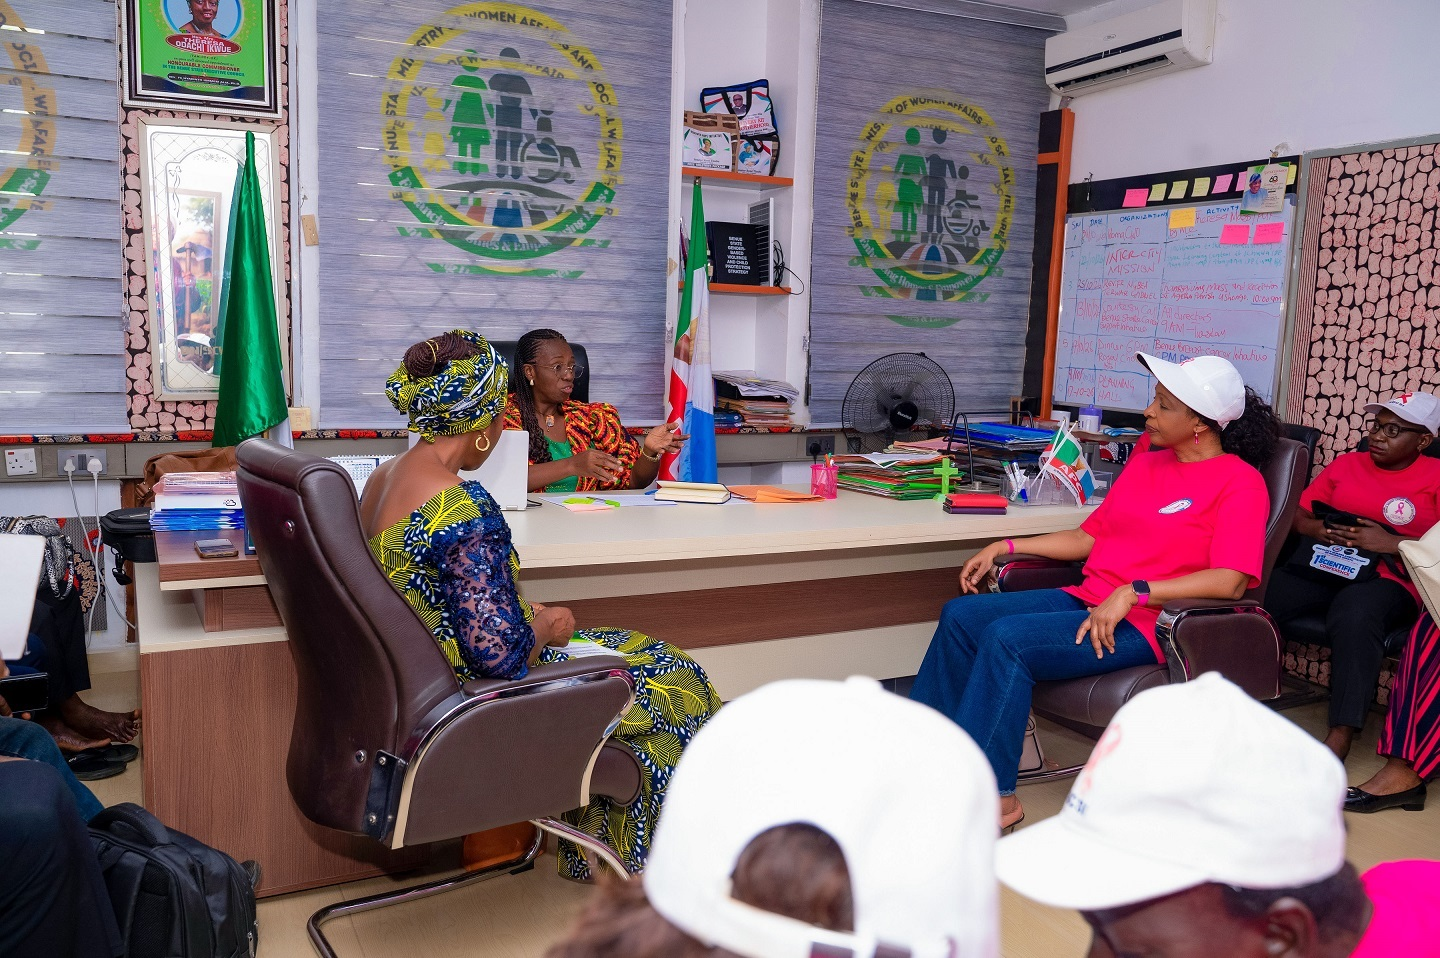
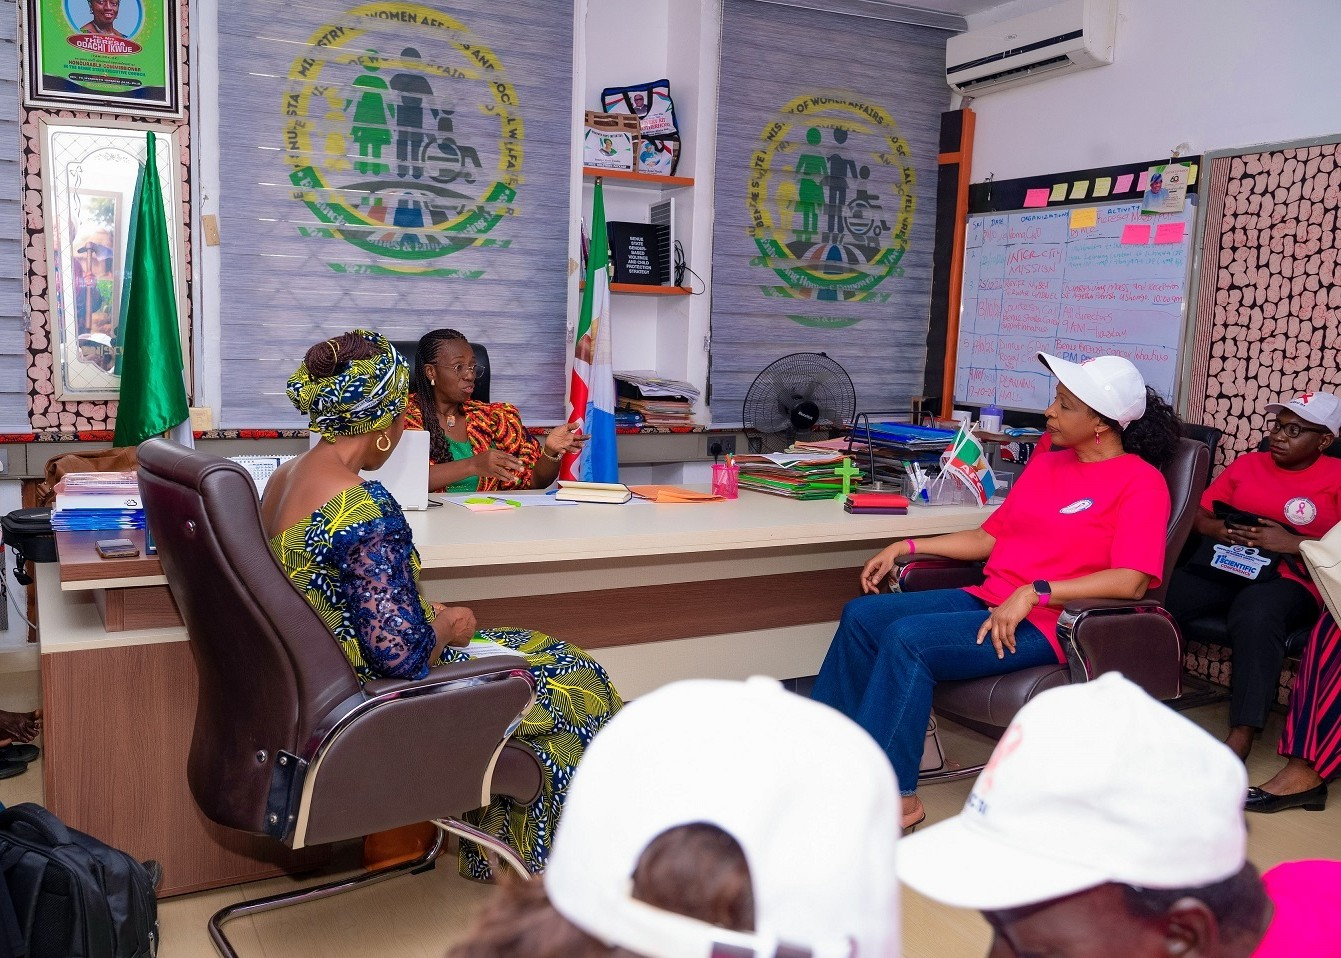
day six part 2 cleanup

diff --git a/blog/blog_10th_anniversary_gala_night_2026.html b/blog/blog_10th_anniversary_gala_night_2026.html
@@ -3,9 +3,7 @@
   <head>
     <meta charset="utf-8" />
     <meta name="viewport" content="width=device-width, initial-scale=1" />
-    <title>
-      BBCSI at 10, Day Six Part Two: An Evening of Gratitude, Celebration and
-      Remembrance at the 10th Anniversary Gala Night | BBCSI
+    <title> 10th Anniversary Gala Night | BBCSI
     </title>
     <meta
       name="description"
@@ -139,7 +137,6 @@
         border-radius: 10px;
         padding: 20px;
         margin-bottom: 15px;
-        border-left: 4px solid var(--bbc-pink);
       }
       blockquote {
         background: linear-gradient(135deg, #fdf2f8 0%, #fff 100%);
@@ -370,21 +367,17 @@
       <div class="container" data-aos="fade-up">
         <article class="bg-white p-4 p-md-5 rounded-4 shadow-sm">
           <div class="mb-4">
-            <span class="badge bbc-pink-bg mb-3">Anniversary</span>
+            <span class="badge bbc-pink-bg mb-3">10th Anniversary</span>
             <h1 class="display-6 fw-bold heading bbc-pink-text">
-              BBCSI at 10: A Decade of Impact
+              An Evening of Gratitude, Celebration and
+              Remembrance &ndash;
             </h1>
-            <p class="h5 text-muted fw-normal">
-              Day Six, Part Two: An Evening of Gratitude, Celebration and
-              Remembrance &ndash; BBCSI&rsquo;s 10th Anniversary Gala Night
-            </p>
             <p class="text-muted small my-4">
-              <i class="bi bi-calendar3 me-2" aria-hidden="true"></i>Published:
-              <time datetime="2026-10-17">Saturday, 17 October 2026</time>
+              <i class="bi bi-calendar3 me-2" aria-hidden="true"></i>
+              <time class="me-2" datetime="2026-10-17">Saturday, 17 October 2026</time>
               &middot;
-              <i class="bi bi-geo-alt me-2 ms-2" aria-hidden="true"></i>Royal
-              Choice Inn, Makurdi, Benue State &middot;
-              <i class="bi bi-person me-2 ms-2" aria-hidden="true"></i>BBCSI
+              <br class="d-md-none">
+              <i class="bi bi-person me-2" aria-hidden="true"></i>BBCSI
               Communications Team
             </p>
           </div>
@@ -422,23 +415,8 @@
               ahead.
             </p>
 
-            <div class="row g-3 my-4 text-center">
-              <div class="col-6">
-                <div class="p-3 rounded-3" style="background: #fdf2f8">
-                  <div class="fs-2 fw-bold bbc-pink-text">335</div>
-                  <div class="small">Guests on the night</div>
-                </div>
-              </div>
-              <div class="col-6">
-                <div class="p-3 rounded-3" style="background: #fdf2f8">
-                  <div class="fs-2 fw-bold bbc-pink-text">250</div>
-                  <div class="small">Original attendance target</div>
-                </div>
-              </div>
-            </div>
-
             <h2 class="h5 mt-5 bbc-pink-text">
-              335 Guests! An Evening Beyond Expectations
+              An Evening Beyond Expectations
             </h2>
             <p>
               The organisers had set an attendance target of 250 guests.
@@ -457,6 +435,18 @@
               evening contributed to an atmosphere of celebration and
               appreciation.
             </p>
+            <div class="g-wide">
+              <figure class="g-item">
+                <img
+                  src="../assets/img/gala-night-6.jpg"
+                  alt="Guests at the Gala Night"
+                  loading="lazy"
+                />
+                <figcaption>
+                 Guests at the Gala Night
+                </figcaption>
+              </figure>
+            </div>
 
             <h2 class="h5 mt-5 bbc-pink-text">
               Celebrating Our Partners: Gratitude for a Decade of Support
@@ -496,25 +486,6 @@
               a delightful occasion.
             </p>
 
-            <div class="g-grid">
-              <figure class="g-item">
-                <img
-                  src="../assets/img/gala-night-3.jpg"
-                  alt="Guests at the BBCSI 10th Anniversary Gala Night"
-                  loading="lazy"
-                />
-                <figcaption>An evening of elegance and gratitude</figcaption>
-              </figure>
-              <figure class="g-item">
-                <img
-                  src="../assets/img/gala-night-2.jpg"
-                  alt="Partners and friends celebrating at the Gala Night"
-                  loading="lazy"
-                />
-                <figcaption>Partners, supporters and friends</figcaption>
-              </figure>
-            </div>
-
             <h2 class="h5 mt-5 bbc-pink-text">
               Giving Back Through the Silent Auction and Raffle Draw
             </h2>
@@ -542,7 +513,40 @@
               reinforcing the spirit of giving and collective responsibility
               that has sustained the organisation&rsquo;s mission.
             </p>
-
+            <div class="g-grid">
+              <figure class="g-item">
+                <img
+                  src="../assets/img/gala-night-7.jpg"
+                  alt="A Fashion Statement by MOB"
+                  loading="lazy"
+                />
+                <figcaption>A Fashion Statement by MOB</figcaption>
+              </figure>
+              <figure class="g-item">
+                <img
+                  src="../assets/img/gala-night-8.jpg"
+                  alt="Pastor Nicodemus"
+                  loading="lazy"
+                />
+                <figcaption>Pastor Nicodemus lightening up the event</figcaption>
+              </figure>
+              <figure class="g-item">
+                <img
+                  src="../assets/img/gala-night-10.jpg"
+                  alt="Captivating traditional dance by the Ebony Group."
+                  loading="lazy"
+                />
+                <figcaption>Captivating traditional dance by the Ebony Group.</figcaption>
+              </figure>
+              <figure class="g-item">
+                <img
+                  src="../assets/img/gala-night-9.jpg"
+                  alt="Outstanding music performance by O.D. Woods"
+                  loading="lazy"
+                />
+                <figcaption>Outstanding music performance by O.D. Woods</figcaption>
+              </figure>
+            </div>
             <h2 class="h5 mt-5 bbc-pink-text">
               Fashion, Culture and Entertainment: A Night to Remember!
             </h2>
@@ -595,19 +599,6 @@
               evening.
             </p>
 
-            <div class="g-wide">
-              <figure class="g-item">
-                <img
-                  src="../assets/img/gala-night-4.jpg"
-                  alt="Entertainment and cultural performances at the Gala Night"
-                  loading="lazy"
-                />
-                <figcaption>
-                  Culture and entertainment on stage
-                </figcaption>
-              </figure>
-            </div>
-
             <h2 class="h5 mt-5 bbc-pink-text">
               Remembering Our Fallen Breast Cancer Warriors
             </h2>
@@ -636,6 +627,18 @@
               </p>
             </blockquote>
 
+             <div class="g-wide">
+              <figure class="g-item">
+                <img
+                  src="../assets/img/gala-night-2.jpg"
+                  alt="Entertainment and cultural performances at the Gala Night"
+                  loading="lazy"
+                />
+                <figcaption>
+                  Culture and entertainment on stage
+                </figcaption>
+              </figure>
+            </div>
             <h2 class="h5 mt-5 bbc-pink-text">
               Ten Years of Impact: Celebrating Yesterday, Inspiring Tomorrow
             </h2>
@@ -657,19 +660,15 @@
               strengthen the fight against breast cancer.
             </p>
             <blockquote>
-              <p>
+              <p class="bbc-pink-text h5">
                 Ten years of making a difference.<br />Ten years of standing
                 together.<br />Ten years of celebrating survivors and
                 remembering those we have lost.<br />And the journey continues!
               </p>
             </blockquote>
-            <p class="fw-bold">
-              #BBCSI@10: Celebrating the Journey, Strengthening the Mission,
-              Inspiring Hope!
-            </p>
-
-            <div class="mt-4">
-              <a class="bbc-pink-text" href="./">&larr; Back to all articles</a>
+           <div class="mt-4 d-flex text-center justify-content-between">
+              <a class="bbc-pink-text d-none d-md-inline" href="blog_novelty_football_match_2026.html"> &larr; Novelty Match</a>
+              <a class="bbc-pink-text" href="blog_thanksgiving_service_2026.html">Thansksgiving Service &rarr;</a>
             </div>
           </section>
         </article>

diff --git a/blog/blog_novelty_football_match_2026.html b/blog/blog_novelty_football_match_2026.html
@@ -579,7 +579,7 @@
             </p>
             <div class="mt-4 d-flex text-center justify-content-between">
               <a class="bbc-pink-text d-none d-md-inline" href="blog_daudu_idp_camp_outreach_2026.html"> &larr; Dauda Camp Outreach</a>
-              <a class="bbc-pink-text" href="blog_10th_anniversary_gala.html">Gala Night &rarr;</a>
+              <a class="bbc-pink-text" href="blog_10th_anniversary_gala_night_2026.html">Gala Night &rarr;</a>
             </div>
           </section>
         </article>
